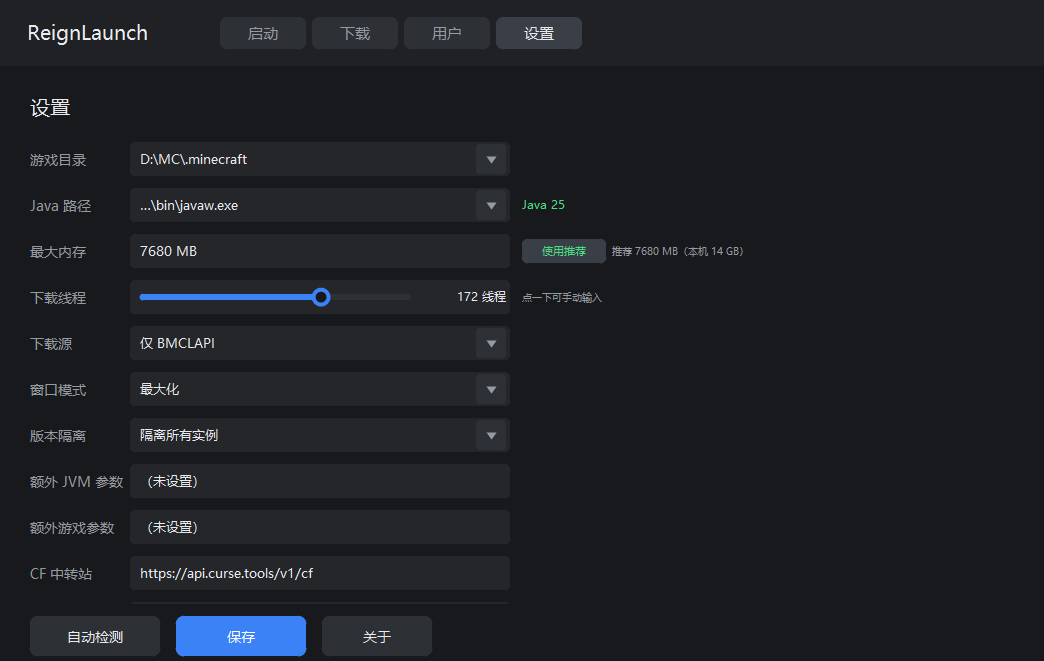
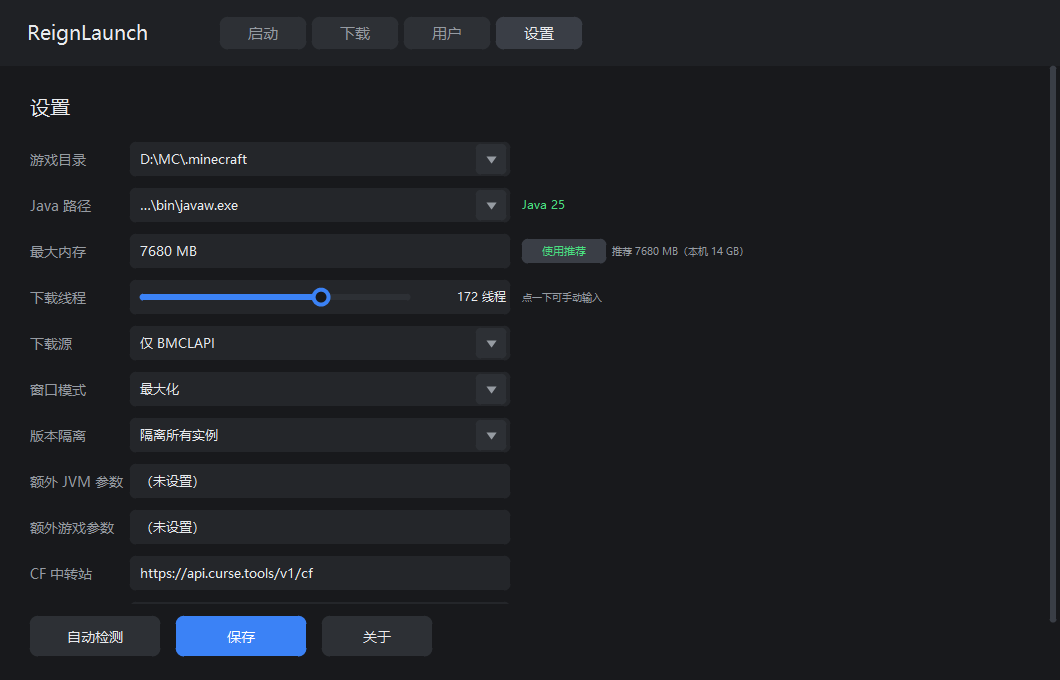
1.3.0 RC 1: 自适应布局（最大化字体/控件跟随）+ 全部新截图

diff --git a/src/ReignLaunch.cpp b/src/ReignLaunch.cpp
@@ -5254,12 +5254,14 @@ public:
         bool verTab = (dlTab == 0);
         bool showInstall = (verTab && detailIdx >= 0);
 
-        search->hidden_ = !verTab;
-        modSearch->hidden_ = verTab;
+        // 版本详情页也要隐藏搜索框（否则盖住「返回」按钮）
+        bool verList = (verTab && detailIdx < 0 && modDetail < 0);
+        search->hidden_ = !verList;
+        modSearch->hidden_ = !(verTab == false && modDetail < 0);
         btnInstall->hidden_ = !showInstall;
 
         // 版本页搜索框：右上角（筛选框左边留空，不重叠）
-        if (verTab) {
+        if (verList) {
             search->resize(x() + w() - 250, y() + TOOLBAR_Y, 230, 32);
             modSearch->resize(-9999, -9999, 240, 32);
         } else {
@@ -6065,6 +6067,8 @@ public:
         }
 
         // ---------- 下载按钮 ----------
+        // 版本列表后台加载完成后，默认选中第一个（否则按钮一直是灰的）
+        if (modVerSel < 0 && !g_modVerNames.empty()) modVerSel = 0;
         int dbx = x() + w() - 170, dby = y() + h() - 60, dbw = 150, dbh = 42;
         bool canDl = (modVerSel >= 0 && modVerSel < (int)g_modVerFiles.size());
         bool hotD = canDl && inRect(dbx, dby, dbw, dbh, Fl::event_x(), Fl::event_y());
@@ -7601,6 +7605,38 @@ static PageInstance* pageInstance = nullptr;
 static PageUser*     pageUser     = nullptr;
 static PageSettings* pageSettings = nullptr;
 
+// ============================ 自适应布局 ============================
+// 窗口最大化/拉伸时，把所有页面、浮层、标题栏都重新铺满
+static Fl_Box*    g_headerBg = nullptr;
+static const int  HDR_H = 66;
+
+static void layoutAll(int W, int H) {
+    if (W < 800) W = 800;
+    if (H < 500) H = 500;
+    if (g_headerBg) g_headerBg->resize(0, 0, W, HDR_H);
+
+    int CH = H - HDR_H;
+    if (CH < 100) CH = 100;
+
+    for (int i = 0; i < P_COUNT; ++i) {
+        if (!g_pages[i]) continue;
+        g_pages[i]->resize(0, HDR_H, W, CH);   // 虚函数，触发各页自己的重排
+    }
+    if (g_aboutPage) g_aboutPage->resize(0, HDR_H, W, CH);
+    if (g_overlay)   g_overlay->resize(0, HDR_H, W, CH);
+    if (g_win)       g_win->redraw();
+}
+
+// 自定义窗口：resize 时重新布局
+class MainWindow : public Fl_Double_Window {
+public:
+    MainWindow(int W, int H, const char* t) : Fl_Double_Window(W, H, t) {}
+    void resize(int X, int Y, int W, int H) override {
+        Fl_Double_Window::resize(X, Y, W, H);
+        layoutAll(W, H);
+    }
+};
+
 // ============================ 全局事件过滤器 ============================
 // FLTK 的 Fl_Group 会先把事件分派给子控件，
 // 启动页左侧导航栏没有对应子控件，所以要在这里拦截。
@@ -7667,14 +7703,14 @@ int main(int argc, char** argv) {
 
     const int W = 1060, H = 680, HEADER_H = 66;
 
-    g_win = new Fl_Double_Window(W, H, "ReignLaunch - Minecraft 启动器");
+    g_win = new MainWindow(W, H, "ReignLaunch - Minecraft 启动器");
     g_win->color(clr_bg());
     g_win->size_range(900, 600);
     g_win->begin();
 
-    Fl_Box* headerBg = new Fl_Box(0, 0, W, HEADER_H);
-    headerBg->box(FL_FLAT_BOX);
-    headerBg->color(clr_header());
+    g_headerBg = new Fl_Box(0, 0, W, HEADER_H);
+    g_headerBg->box(FL_FLAT_BOX);
+    g_headerBg->color(clr_header());
 
     Fl_Box* logo = new Fl_Box(24, 0, 200, HEADER_H, "ReignLaunch");
     logo->labelfont(FL_HELVETICA_BOLD);
